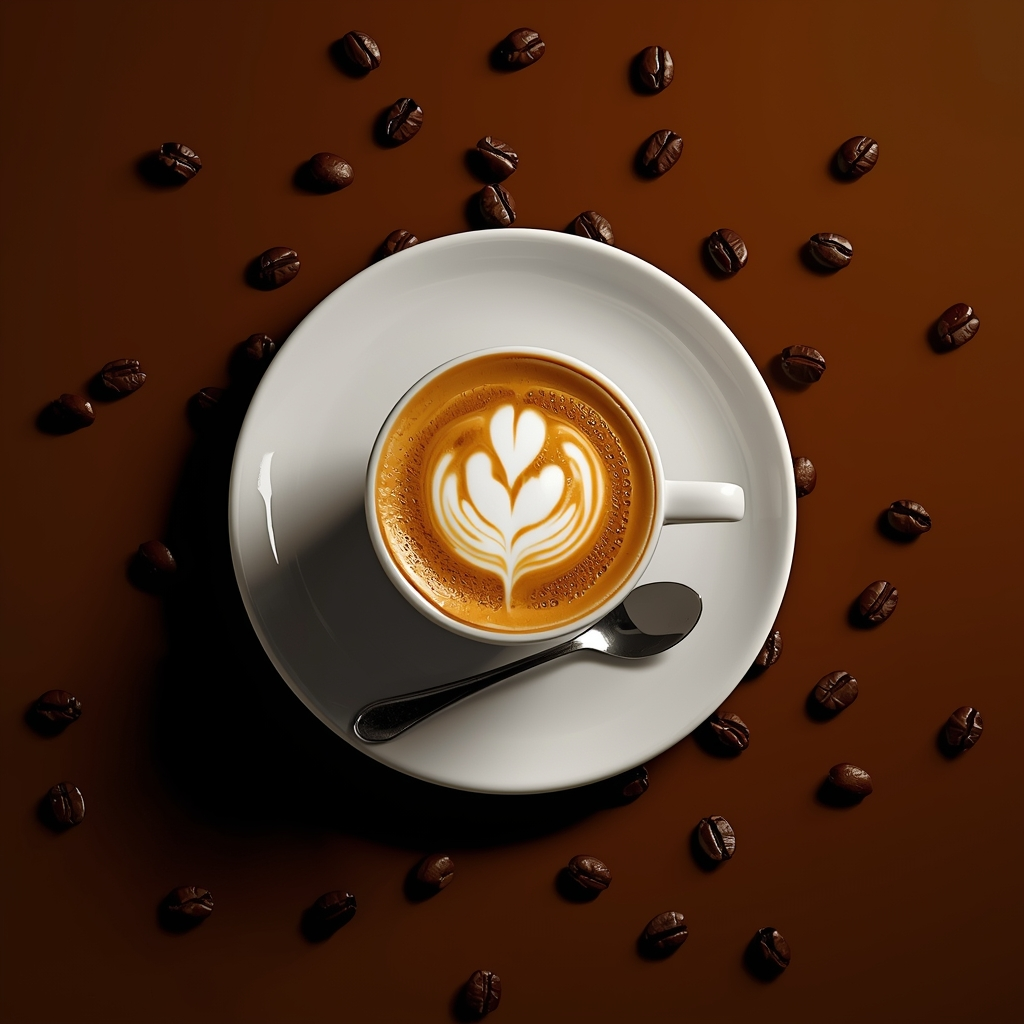
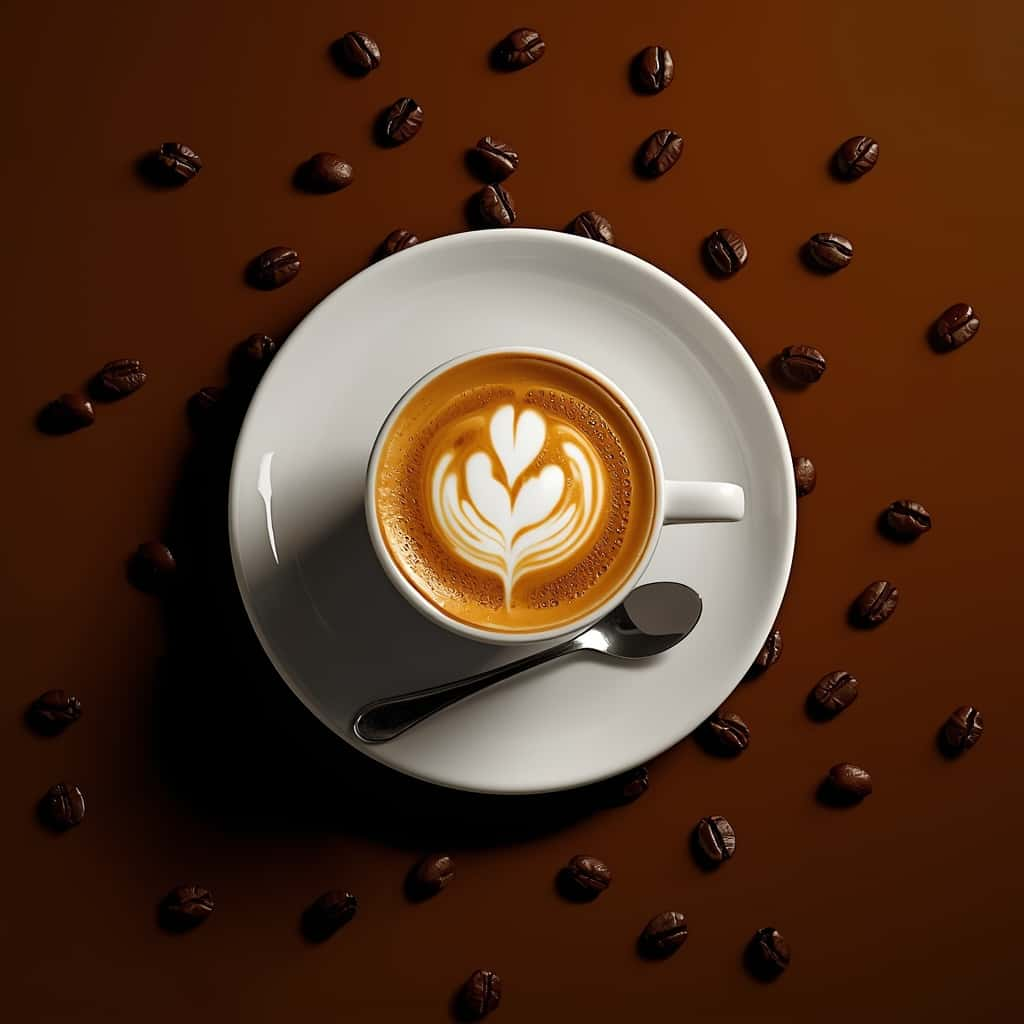
Optimize images

diff --git a/style.css b/style.css
@@ -1054,7 +1054,6 @@ animation: move-comment 30s  linear infinite  ;
 }
 
 
-
 .homme1{
 position: absolute;
 width: 20%;
@@ -1191,7 +1190,7 @@ margin-top: -15px;
 .person-width-beard{
 
 
-background-image: url(Images/person-holds-text-cloud2.png);
+background-image: url(Images/person-holds-text-cloud2.jpg);
 background-position: center;
 background-size: contain;
 background-repeat: no-repeat;
